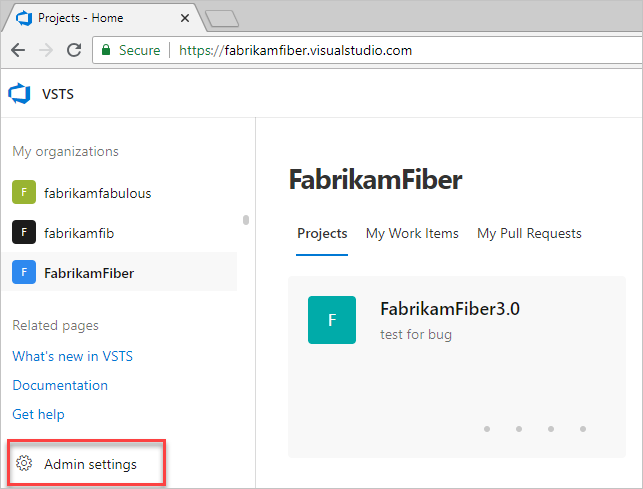
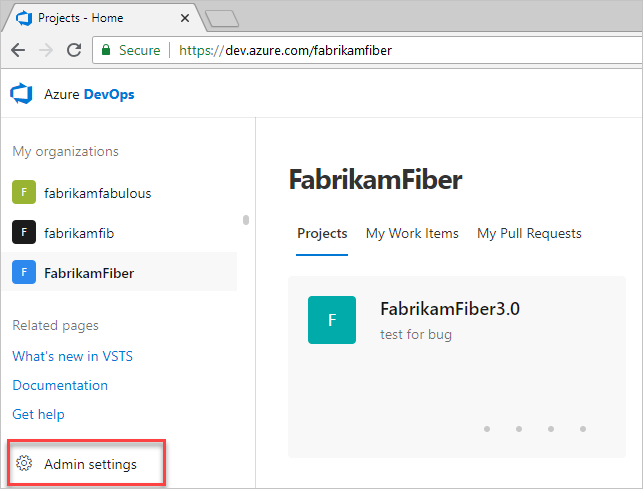
Continued rebrand updates

Changed region(s): [[0.3421, 0.092, 0.6532, 0.1227], [0.0, 0.1534, 0.2177, 0.2147]]

diff --git a/docs/project/navigation/index.md b/docs/project/navigation/index.md
@@ -18,20 +18,21 @@ ms.date: 07/21/2018
 [!INCLUDE [temp](../../_shared/version-tfs-2017-through-vsts.md)] 
 
 ::: moniker range="vsts"
-The web portal for Azure DevOps Services is organized around a set of services&mdash;such as, **Code**, **Work**, **Build and Release**&mdash;as well as administrative pages and several task-specific features such as the search box. Each service provides you with one or more pages which support a number of features and functional tasks. Within a page, you may then have a choice of options to select a specific artifact or add an artifact.
+The web portal for Azure DevOps Services is organized around a set of services, as well as administrative pages and several task-specific features such as the search box.  The service labels differ depending on the navigation selected: 
+- **New navigation**: **Overview**, **Boards**, **Repos**, **Pipelines**, **Test Plans**, and **Artifacts**
+- **Previous navigation**: **Dashboards**, **Code**, **Work**, **Build and Release**, **Test**, **Wiki**, and **Analytics views**
+
+Each service provides you with one or more pages which support a number of features and functional tasks. Within a page, you may then have a choice of options to select a specific artifact or add an artifact.
 
 ::: moniker-end
 
 ::: moniker range=">= tfs-2015 <= tfs-2018"
-The web portal for Team Foundation Server (TFS) is organized around a set of services&mdash;such as, **Dashboard**, **Code**, **Work**, **Build and Release**&mdash;as well as administrative pages and several task-specific features such as the search box. Each service provides you with one or more pages which support a number of features and functional tasks. Within a page, you may then have a choice of options to select a specific artifact or add an artifact. 
+The web portal for Team Foundation Server (TFS) is organized around a set of applications&mdash;such as, **Dashboards**, **Code**, **Work**, **Build and Release**&mdash;as well as administrative pages and several task-specific features such as the search box. Each service provides you with one or more pages which support a number of features and functional tasks. Within a page, you may then have a choice of options to select a specific artifact or add an artifact. 
 ::: moniker-end
 
-> [!NOTE]   
-> The web portal is one of several clients that can connect to a team project. Different clients support different features and functions. For a list of all clients that support connection to a team project, see [Tools and clients that connect to Azure DevOps Services and TFS](../../user-guide/tools.md?toc=/vsts/project/navigation/toc.json&bc=/vsts/project/navigation/breadcrumb/toc.json). 
+[!INCLUDE [temp](../../_shared/new-navigation.md)] 
 
 Here's what you need to know to get up and running using the web portal.  
-
-[!INCLUDE [temp](../../_shared/new-navigation.md)] 
 
 # [New navigation](#tab/new-nav)
 ::: moniker range="vsts"
@@ -64,9 +65,14 @@ Here's what you need to know to get up and running using the web portal.
 
 ---
 
+
+> [!NOTE]   
+> The web portal is one of several clients that can connect to a team project. Different clients support different features and functions. For a list of all clients that support connection to a  project, see [Tools and clients](../../user-guide/tools.md?toc=/vsts/project/navigation/toc.json&bc=/vsts/project/navigation/breadcrumb/toc.json). 
+
+
 # [New navigation](#tab/new-nav)
 ::: moniker range="vsts"
-In **New navigation**, you select services&mdash;such as **Work**, **Code**, and **Build and Release**&mdash;from the sidebar and pages within those services. 
+In **New navigation**, you select services&mdash;such as **Boards**, **Repos**, and **Pipelines**&mdash;from the sidebar and pages within those services. 
 
 ![New navigation experience with vertical sidebar](_img/gif-images/vertical-nav.gif)
 
@@ -104,7 +110,7 @@ Limited access is available to an unlimited number of stakeholders for free. For
 
 ::: moniker range=">= tfs-2013 <= tfs-2018"
 
-To connect to the web portal, you need your user account added to a project. This is typically done by the [project administrator](../../organizations/security/add-users-team-project.md).
+To connect to the web portal, you need your user account added to a project. This is typically done by a [project administrator](../../organizations/security/add-users-team-project.md).
 
 Limited access is available to an unlimited number of stakeholders for free. For details, see [Work as a Stakeholder](../../organizations/security/get-started-stakeholder.md). Most regular contributors must have a TFS client access license (CAL). All Visual Studio subscriptions include a TFS CAL. Find out more about licensing from [TFS pricing](https://www.visualstudio.com/team-services/tfs-pricing).
 
@@ -149,7 +155,6 @@ Although you can access source code, work items, and builds from both clients, s
 </ul>
 </li>
 <li><p>Greater integration with work items and Office-integration clients. You can open a work item or query result in an office supported client.</p></li>
-<li><p>Additional text formatting options for rich-text fields in work item forms.</p></li>
 </ul></td>
 </tr>
 </tbody>

diff --git a/docs/project/navigation/set-favorites.md b/docs/project/navigation/set-favorites.md
@@ -124,10 +124,15 @@ Access your favorites by choosing the ![](../../_img/icons/inbox.png) inbox icon
 
 # [Previous navigation](#tab/previous-nav)
 
-From your Projects page, choose **My Favorites** to quickly access any artifact or item that you've marked as a favorite. 
+0. Choose the ![](../../_img/icons/project-icon.png) Azure DevOps logo to open **Projects**. 
 
-> [!div class="mx-imgBorder"]  
-> ![Account home, Favorites page](_img/favorites/project-page-favorites-horz.png)   
+	> [!div class="mx-imgBorder"]  
+	> ![Open Projects page](../../_shared/_img/settings/open-project-hub-horz.png)   
+
+0. Choose **My Favorites** to quickly access any artifact or item that you've marked as a favorite. 
+
+	> [!div class="mx-imgBorder"]  
+	> ![Projects page, Favorites page](_img/favorites/project-page-favorites-horz.png)   
 
 ---
 

diff --git a/docs/project/navigation/go-to-service-page.md b/docs/project/navigation/go-to-service-page.md
@@ -136,7 +136,7 @@ Open any admin page by choosing it's name. Choose or hover over the ![](../../_i
 <a id="collection-admin-context" /> 
 
 ::: moniker range="vsts"
-## Open Admin settings 
+## Open Admin or Organization settings 
 
 Account owners and members of the Project Collection Administators group configure resources for all projects or the entire organization, including adding users, from the Admin settings pages. This includes managing permissions at the organization-level. For an overview of all admin settings, see [Project collection administrator role and managing collections of projects](../../organizations/settings/about-settings.md#admin).
 

diff --git a/docs/project/navigation/work-across-projects.md b/docs/project/navigation/work-across-projects.md
@@ -98,7 +98,10 @@ To view work items assigned to you for a specific project, [open **Work>Work Ite
 
 # [Previous navigation](#tab/previous-nav)
 
-Choose the ![](../../_img/icons/Project-icon.png) Azure DevOps logo to open **Projects**. 
+Choose the ![](../../_img/icons/project-icon.png) Azure DevOps logo to open **Projects**. 
+
+> [!div class="mx-imgBorder"]  
+> ![Open Projects page](../../_shared/_img/settings/open-project-hub-horz.png)   
 
 ::: moniker range="vsts"
 Choose **My work items** to access the set of work items assigned to you or followed by you. The lists available from each page span all projects that you work in.

diff --git a/docs/project/navigation/add-artifact-team.md b/docs/project/navigation/add-artifact-team.md
@@ -34,7 +34,7 @@ You can quickly add a query or work item when working from a **Work** page.
 
 ::: moniker range="vsts"
 
-Choose a **Work** page&mdash;such as **Work Items**, **Boards**, or **Backlogs**. Then choose the ![](../../_img/icons/blue-add.png) plus icon and select from the menu of options. 
+Choose a **Boards** page&mdash;such as **Work Items**, **Boards**, or **Backlogs**. Then choose the ![](../../_img/icons/blue-add.png) plus icon and select from the menu of options. 
 
 > [!div class="mx-imgBorder"]
 ![Work, add artifact](_img/add-artifact/add-work-item-query-vert.png)

diff --git a/docs/project/navigation/go-to-project-repo.md b/docs/project/navigation/go-to-project-repo.md
@@ -104,7 +104,7 @@ From the **Projects** page you can quickly navigate to a project or a team that 
 
 # [New navigation](#tab/new-nav)  
 ::: moniker range="vsts"
-0. Choose **Code>Files**.
+0. Choose **Repos>Files**.
 
 	> [!div class="mx-imgBorder"]
 	> ![Open Code, new nav](../../organizations/public/_img/browse-code/open-code-vert-brn.png) 

diff --git a/docs/_shared/version-tfs-2017-through-vsts.md b/docs/_shared/version-tfs-2017-through-vsts.md
@@ -2,4 +2,4 @@
 ms.topic: include
 ---
 
-**VSTS | TFS 2018 | TFS 2017**
+**Azure DevOps Services | TFS 2018 | TFS 2017**
